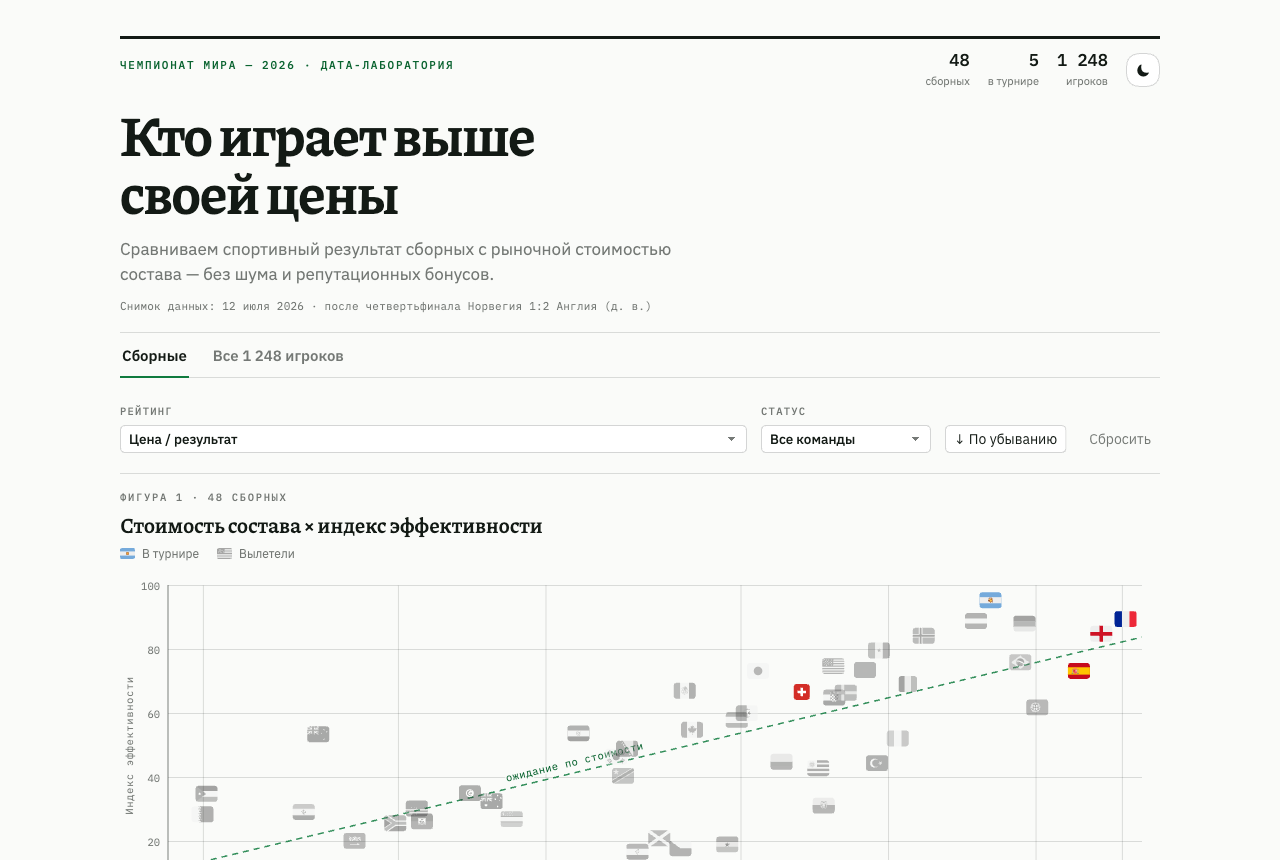
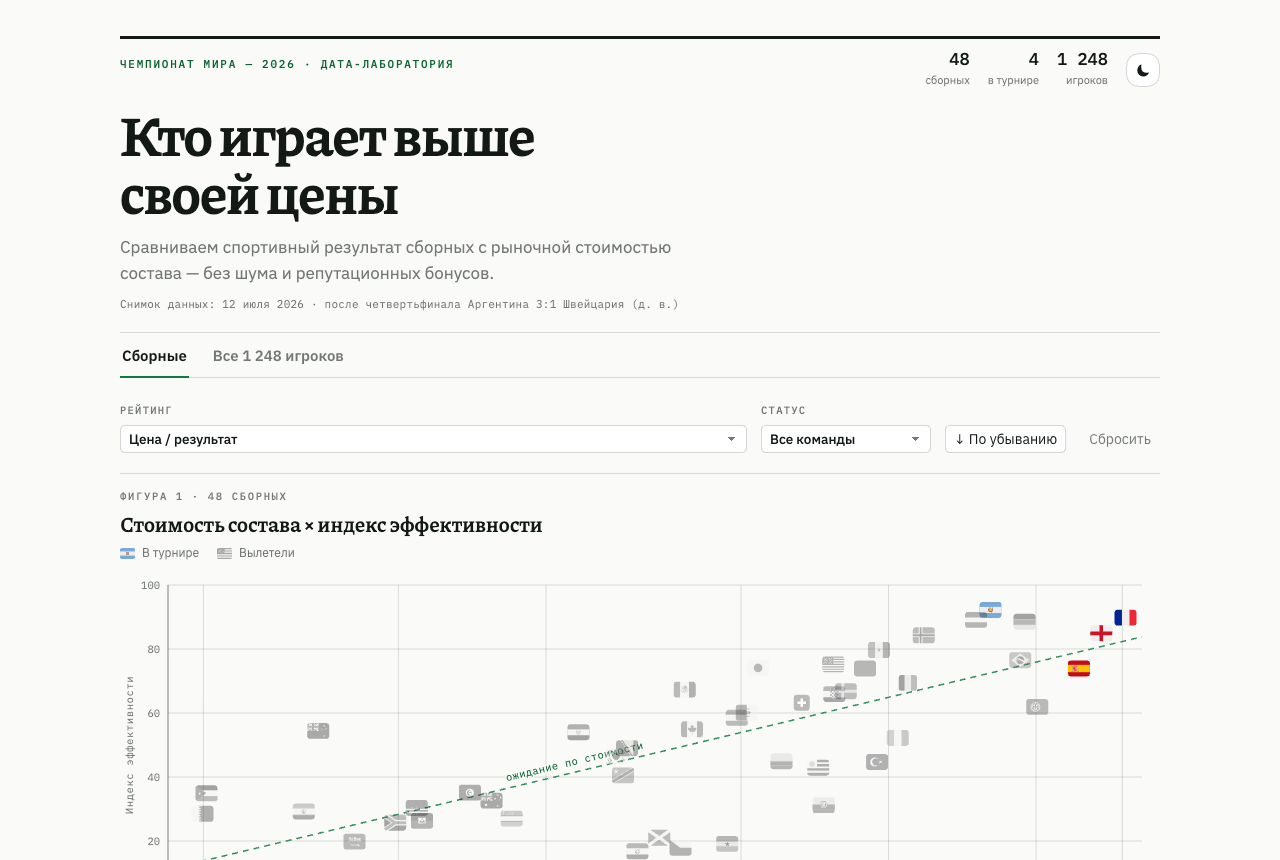
Update Argentina-Switzerland match data

diff --git a/README.md b/README.md
@@ -24,8 +24,8 @@
 
 ## Данные
 
-Снимок данных: 12 июля 2026 года, после четвертьфинала Норвегия — Англия (1:2, д. в.).
+Снимок данных: 12 июля 2026 года, после четвертьфинала Аргентина — Швейцария (3:1, д. в.).
 
-Стоимость состава — это рыночная оценка игроков, а не зарплаты и не сумма клубных контрактов. Матчевая статистика Норвегия — Англия обновлена по итоговым данным ESPN и Opta; результат и события сверены с AP.
+Стоимость состава — это рыночная оценка игроков, а не зарплаты и не сумма клубных контрактов. Матчевая статистика Аргентина — Швейцария обновлена по итоговым данным ESPN и Opta; результат, составы и события сверены с официальным отчётом FIFA.
 
 Командный индекс эффективности рассчитывается воспроизводимо из процентильных рангов: голы за матч — 30%, реализация — 25%, удары в створ — 15%, точность паса — 20%, владение — 10%. Индекс «цена / результат» на 70% учитывает отклонение от ожиданий для стоимости состава и на 30% — спортивный индекс.